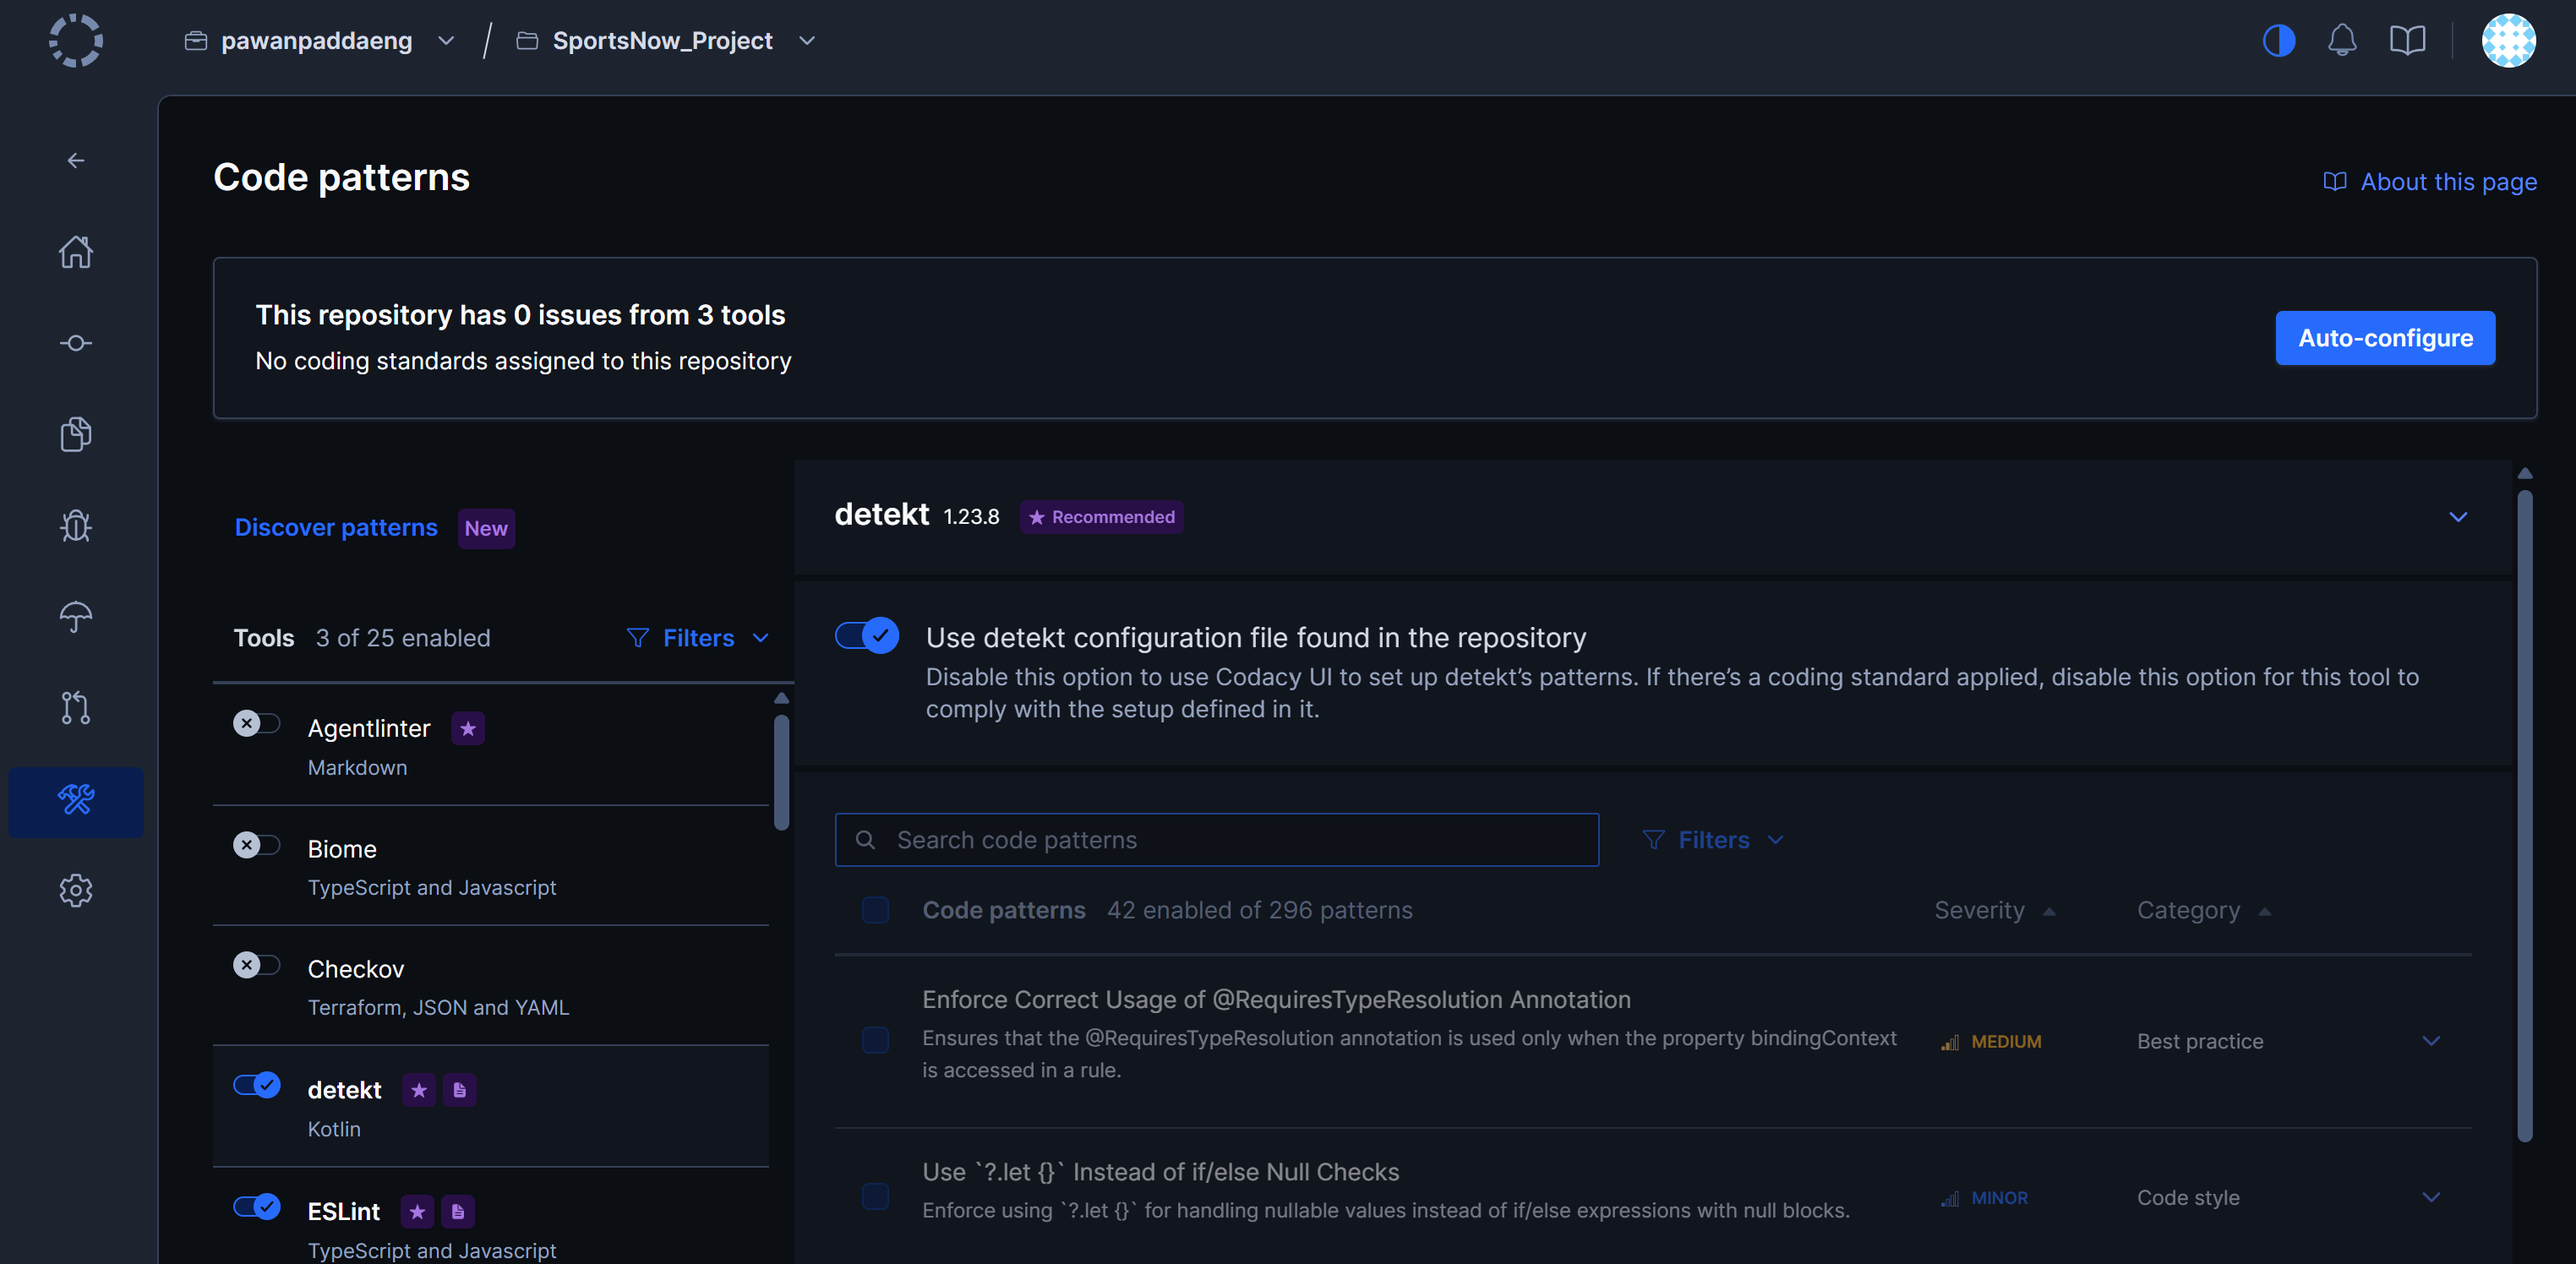
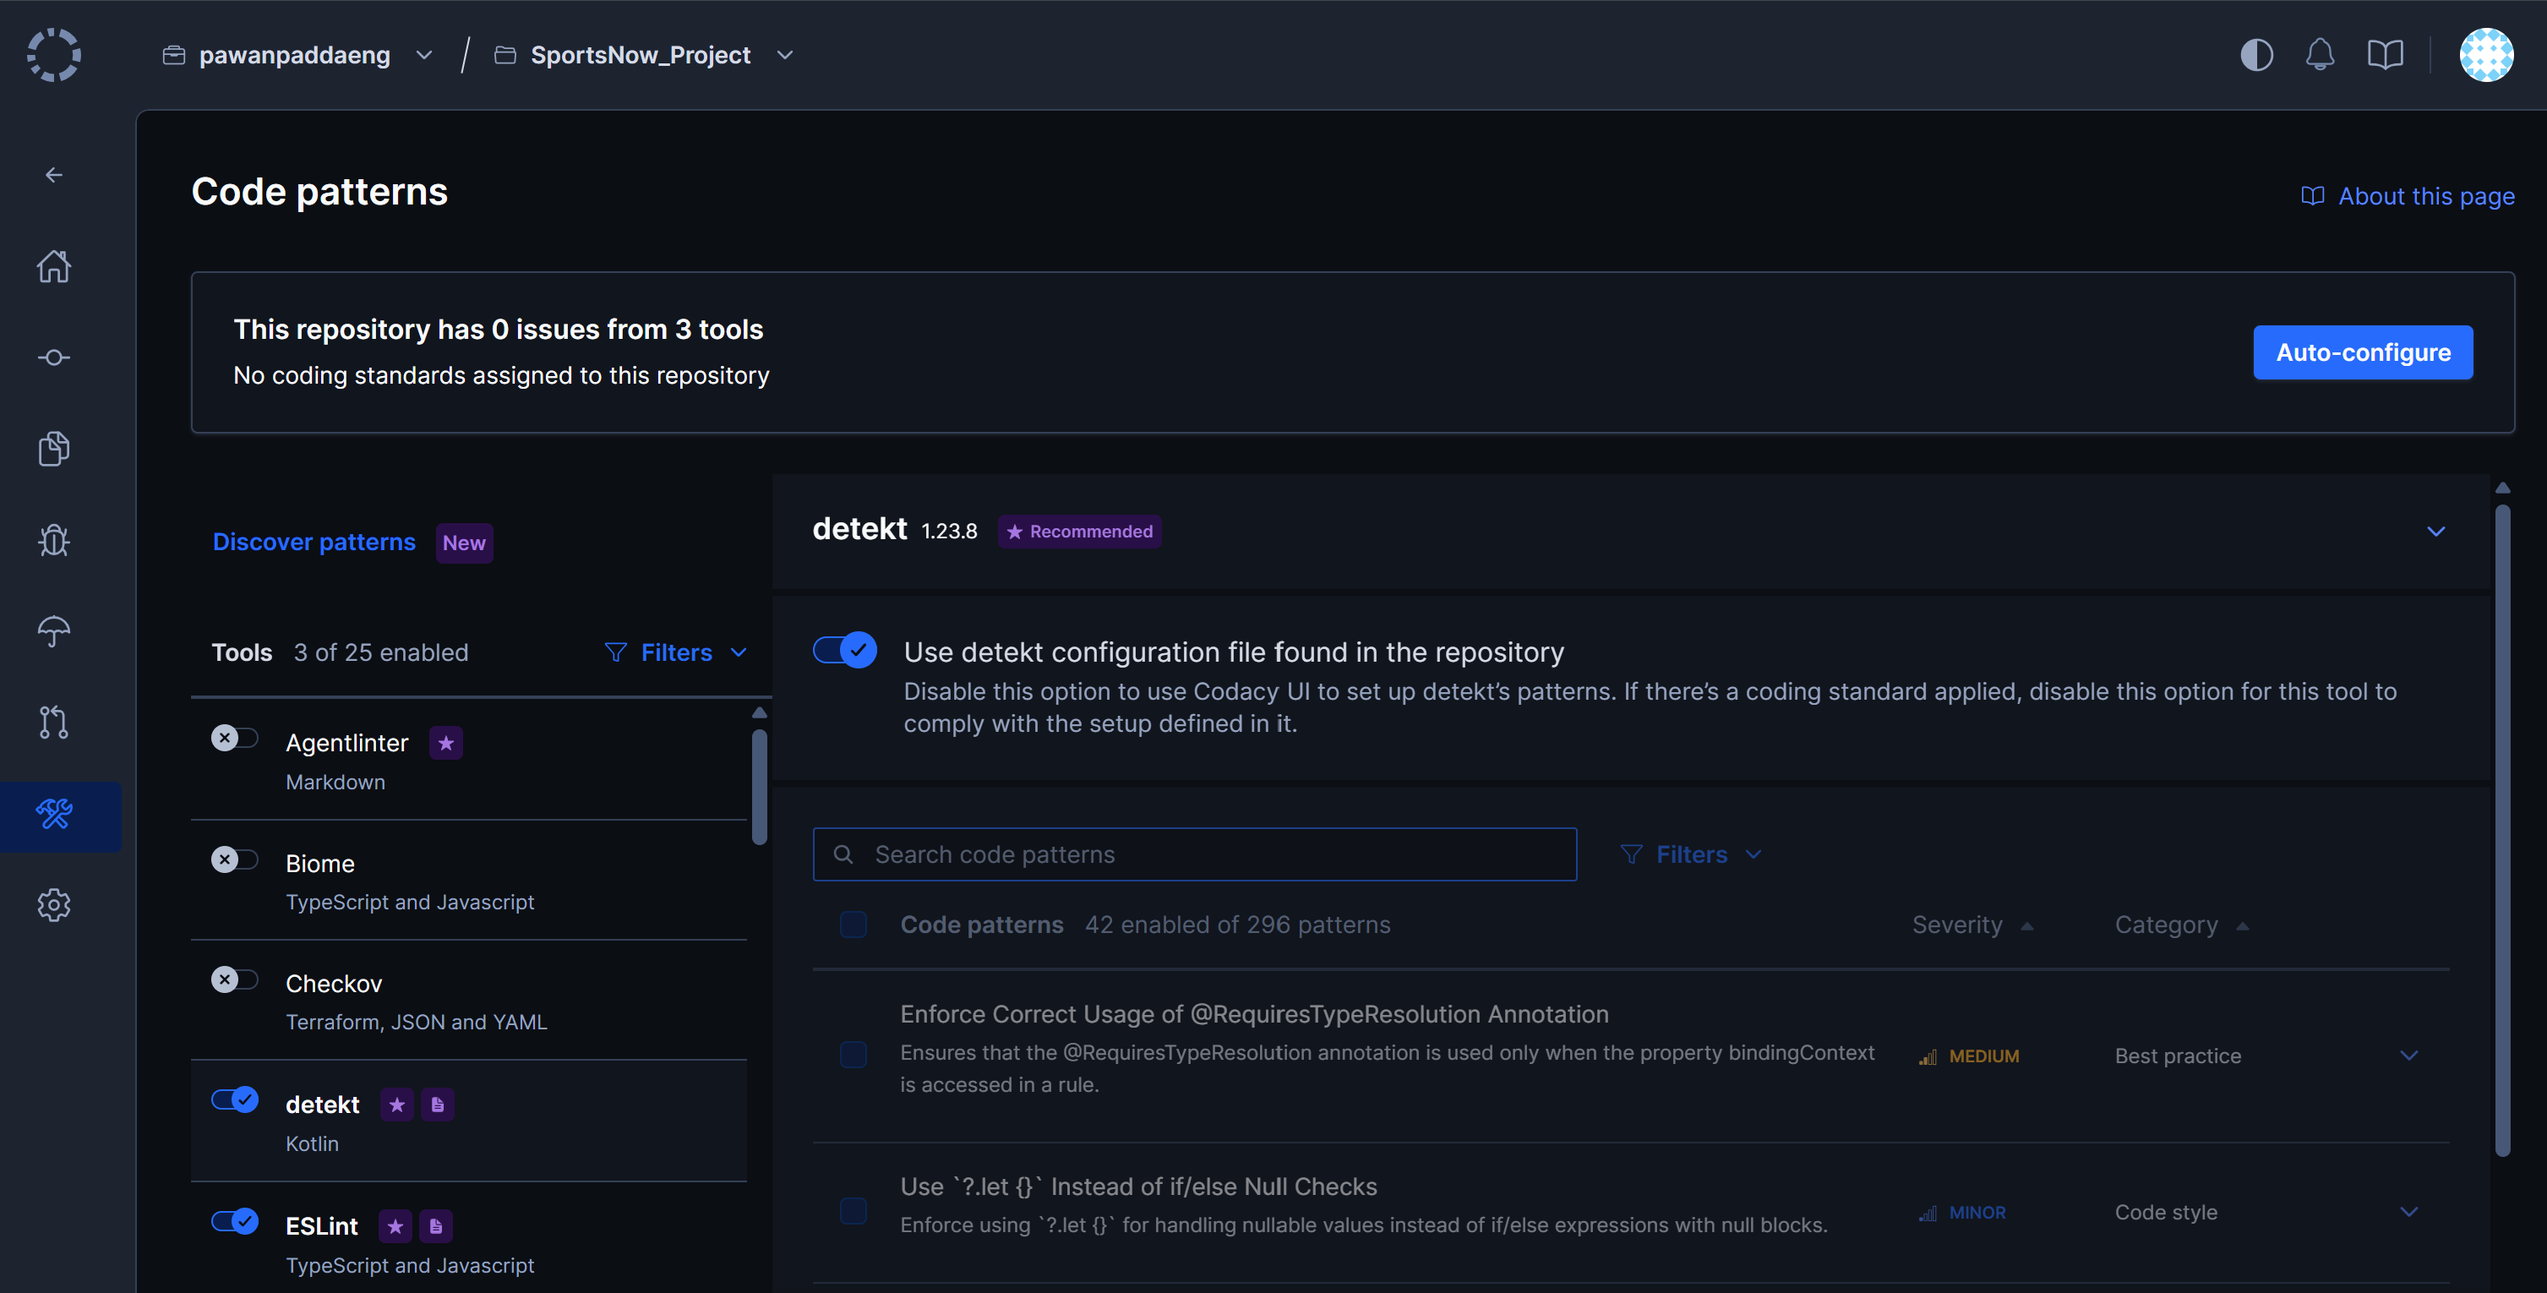
docs: update codacy reprot to reflect CP2 code

diff --git a/documentation/Code_Review.md b/documentation/Code_Review.md
@@ -4,7 +4,7 @@
 
 | **Change Date**   | **Modified Sections** | **Rationale** |
 | ----------------- | --------------------- | ------------- |
-| _Nothing to show_ |
+| _4-Nov-2026_ | Section 2 pictures | Updating codacy report for new CP2 code |
 
 ---
 
@@ -12,7 +12,7 @@
 
 ### 2.1. Commit Hash Where Codacy Ran
 
-`363c564e2122d5faa4a972a74499b5ab6367ec77`
+`7ba4248da9b96ccb74851be2b4eae3cedf0c8f87`
 
 ### 2.2. Unfixed Issues per Codacy Category
 
@@ -28,7 +28,7 @@
 
 There are no unfixed Codacy issues at this commit, so no justifications are needed.
 
-Codacy reports low duplication (8%), but 15% of files are marked as complex. We plan to reduce it in a later milestone by decresing nested code and the number of complex files.
+Codacy reports high duplication but that comes from test files rather than source code.
 
 ---
 
